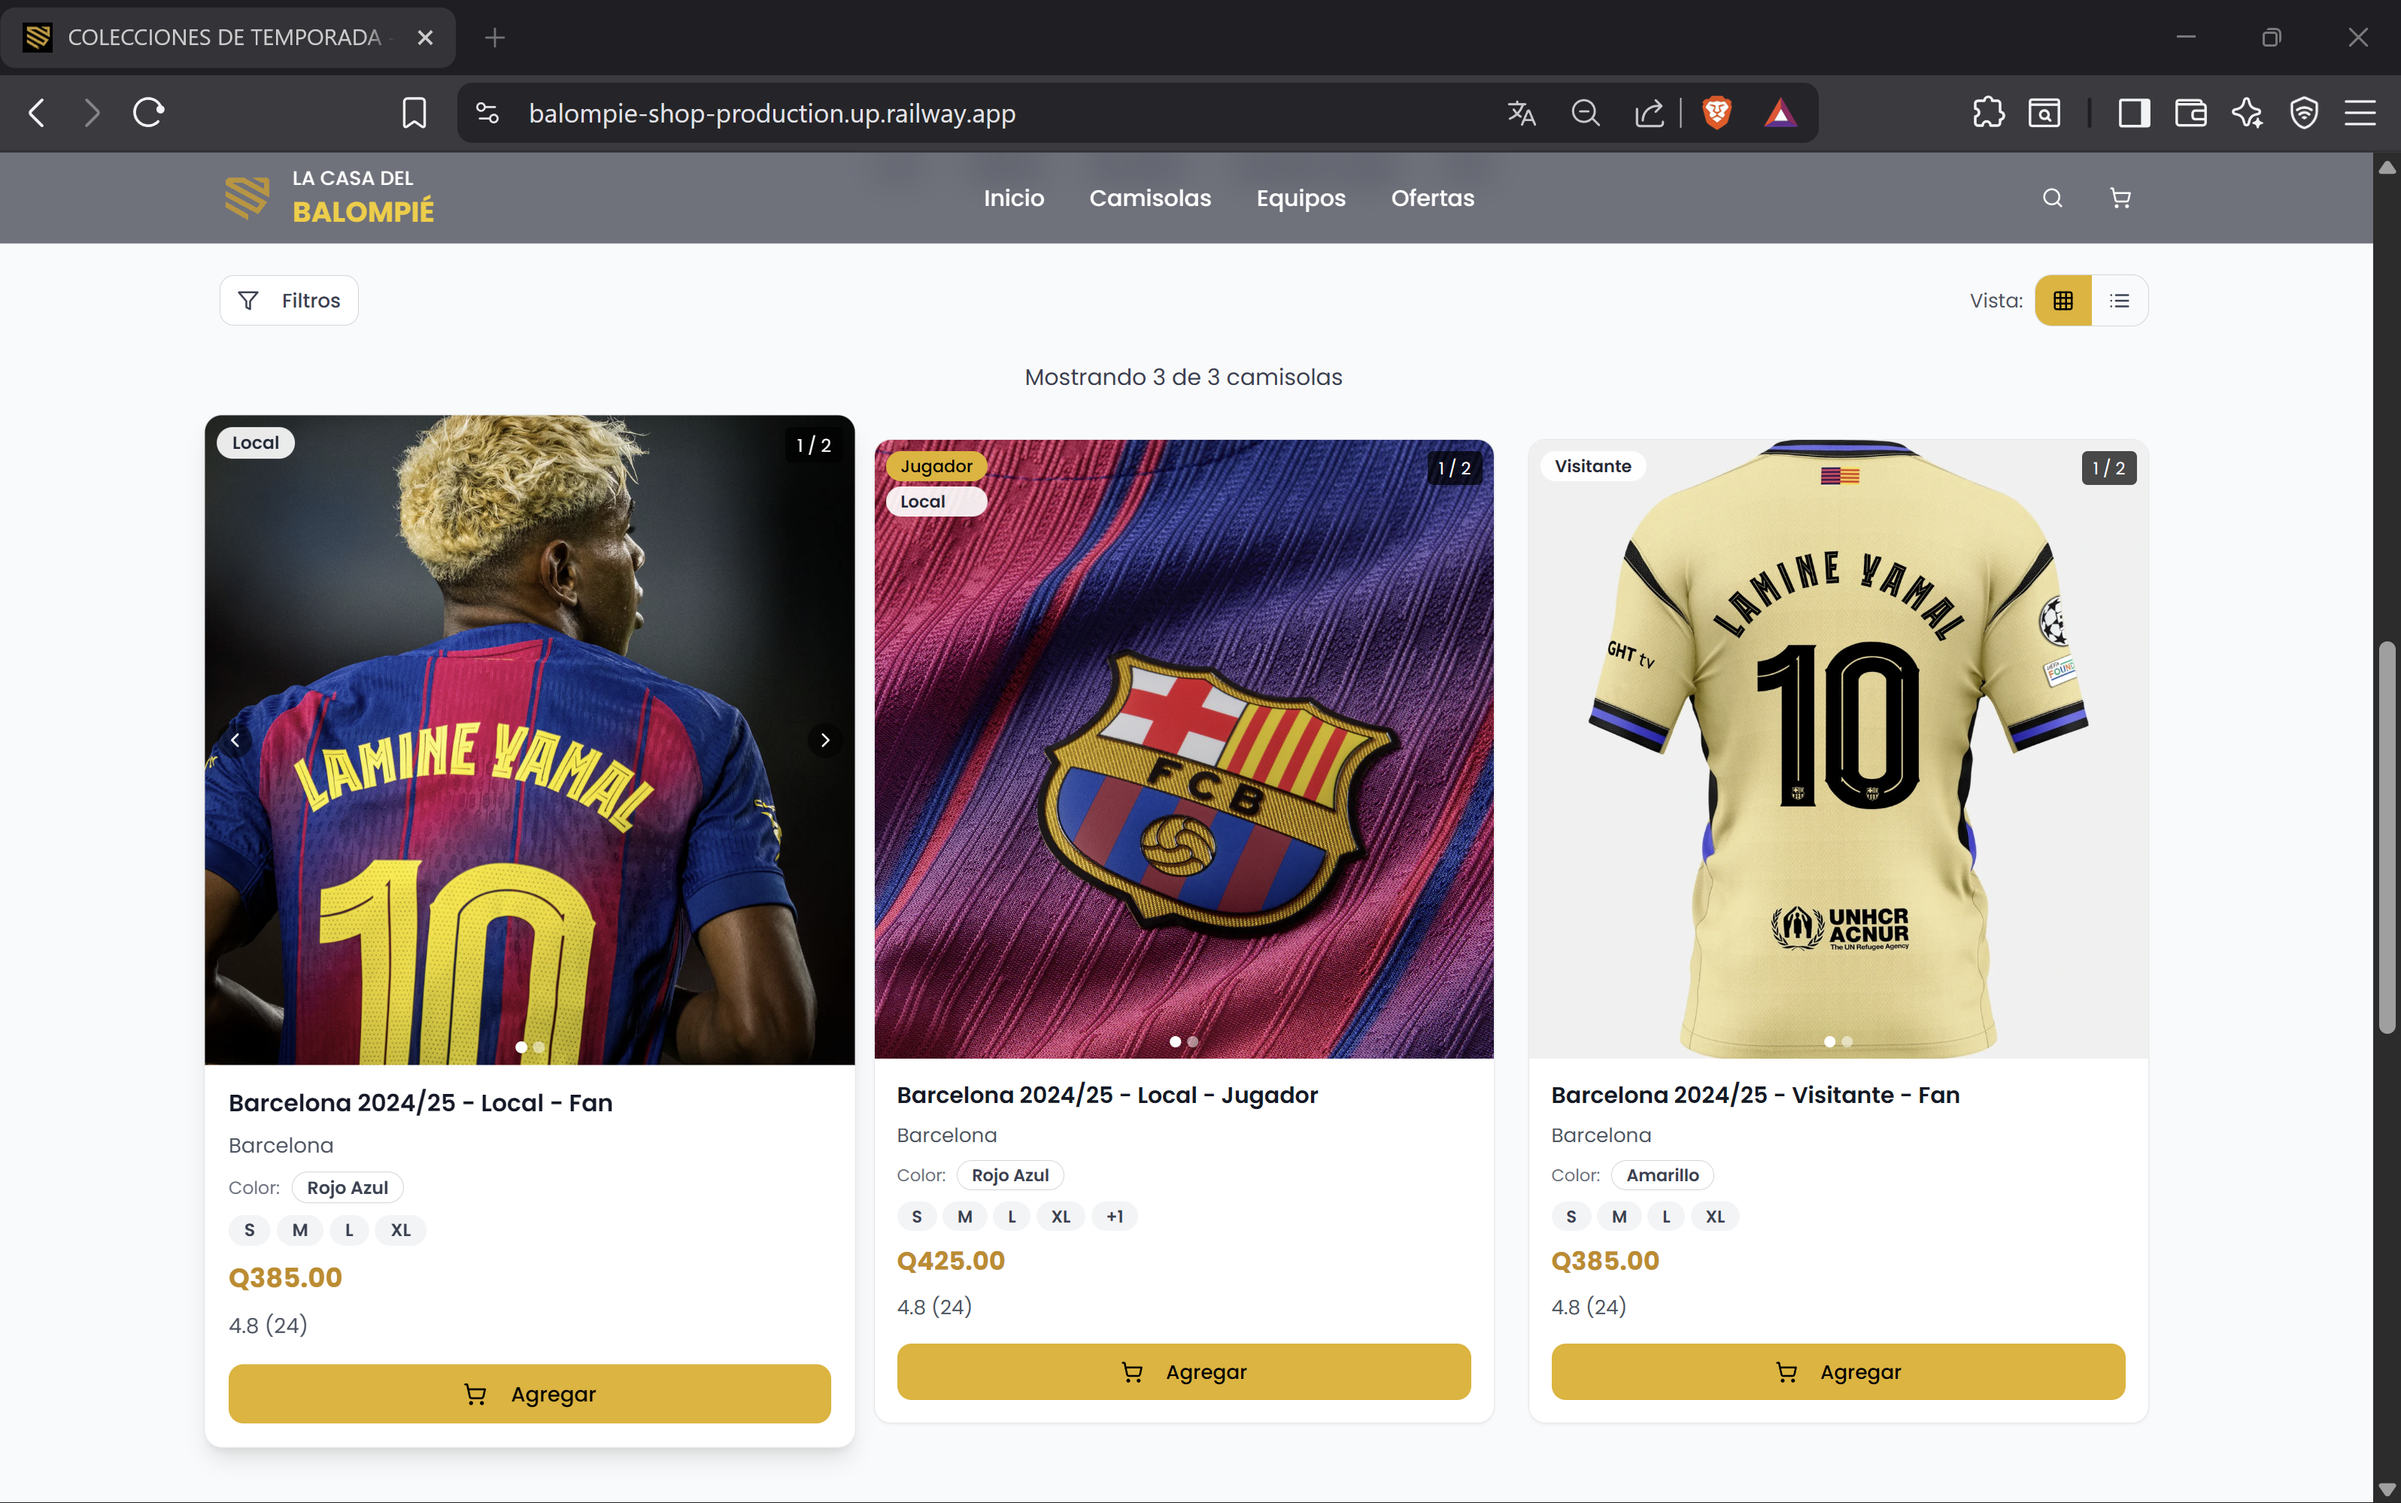
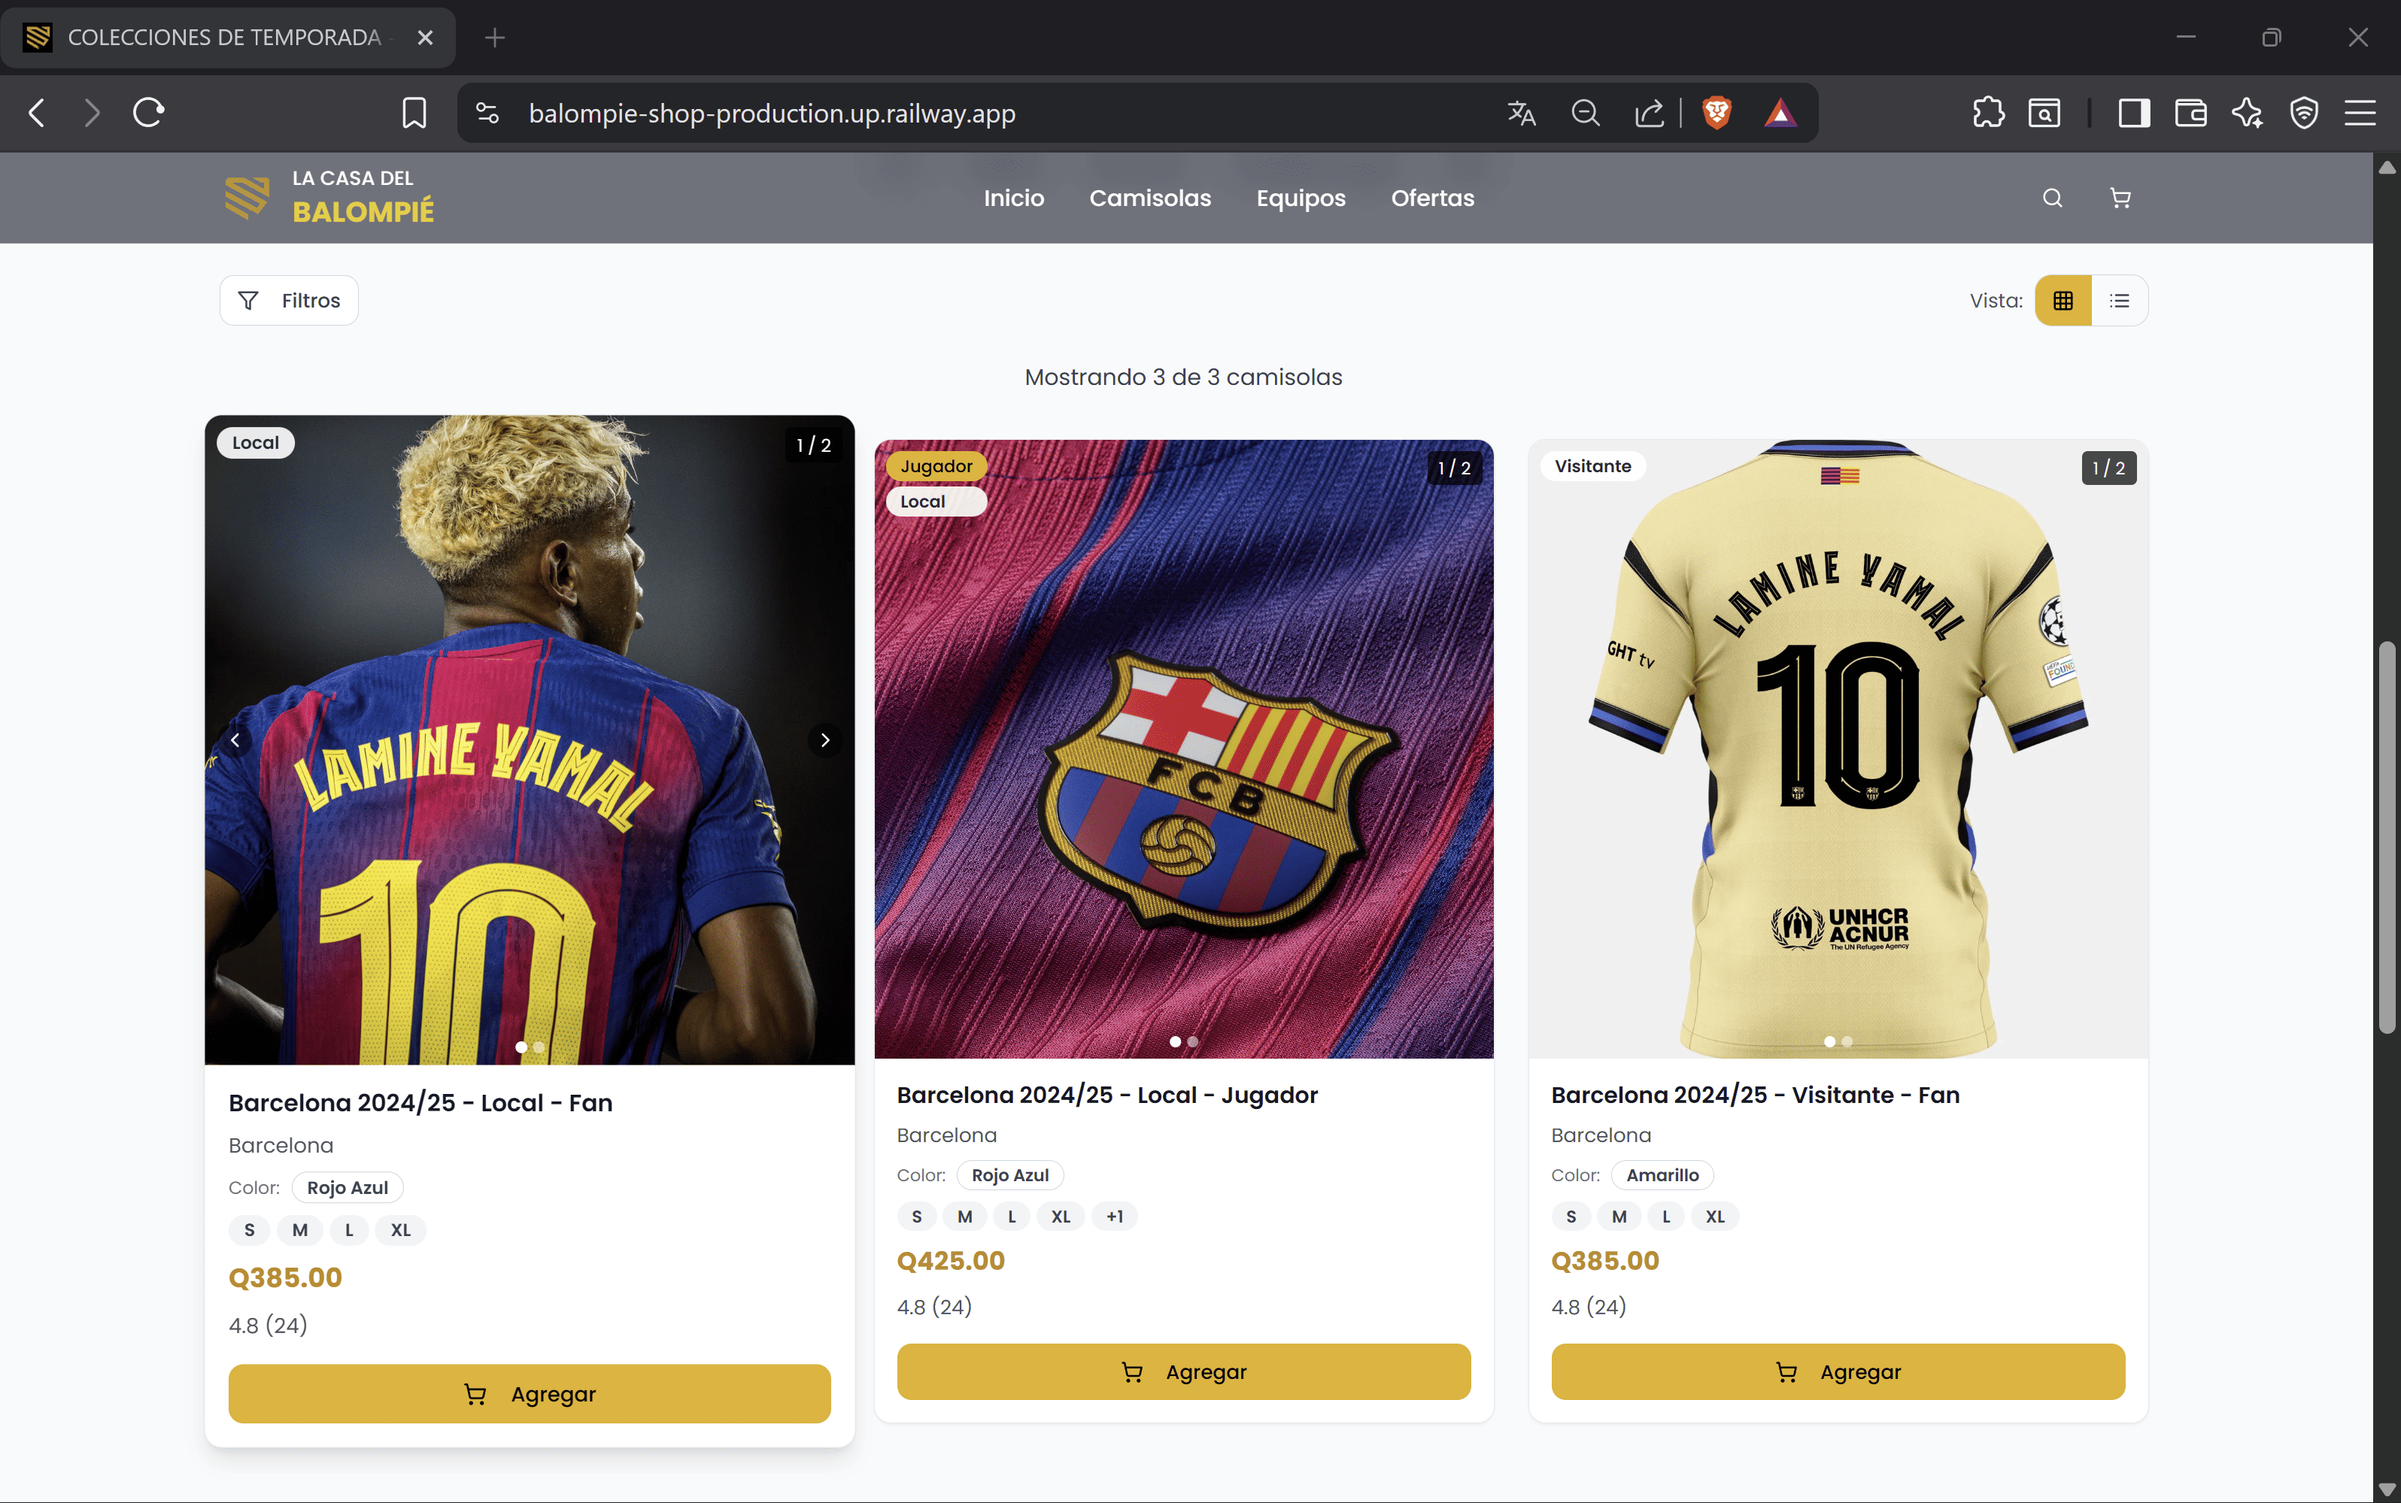
feat: Optimizar imágenes del proyecto e-commerce
- Actualizar project1.png con versión comprimida (hero section)
- Actualizar project2.png con versión comprimida (página productos)
- Agregar documentación de optimización de imágenes
- Mejorar rendimiento de carga del portfolio

diff --git a/optimize-images.md b/optimize-images.md
@@ -1,0 +1,49 @@
+# 🖼 Optimización de Imágenes del Proyecto
+
+## 📋 **Imágenes a actualizar:**
+- `src/assets/project1.png` - Hero section del e-commerce
+- `src/assets/project2.png` - Página de productos del e-commerce
+
+## 🎯 **Recomendaciones para compresión:**
+
+### **Tamaño recomendado:**
+- **Ancho**: 800-1200px
+- **Alto**: 600-800px
+- **Formato**: PNG (para capturas de pantalla)
+- **Calidad**: 80-90%
+
+### **Herramientas recomendadas:**
+1. **TinyPNG** - [tinypng.com](https://tinypng.com)
+2. **Squoosh** - [squoosh.app](https://squoosh.app)
+3. **ImageOptim** (Mac)
+4. **GIMP** (gratuito)
+
+## 🚀 **Pasos para actualizar:**
+
+### 1. **Comprimir las imágenes**
+- Usa una de las herramientas mencionadas
+- Reduce el tamaño manteniendo buena calidad
+- Guarda como `project1.png` y `project2.png`
+
+### 2. **Reemplazar en el proyecto**
+```bash
+# Copia las nuevas imágenes a:
+src/assets/project1.png
+src/assets/project2.png
+```
+
+### 3. **Verificar el resultado**
+- Las imágenes se cargarán automáticamente
+- El proyecto mostrará las nuevas capturas
+
+## 📊 **Beneficios de la compresión:**
+- ✅ **Carga más rápida**
+- ✅ **Menor uso de ancho de banda**
+- ✅ **Mejor experiencia de usuario**
+- ✅ **SEO mejorado**
+
+## 🎨 **Contenido de las imágenes:**
+- **project1.png**: Hero section con "COLECCIONES DE TEMPORADA"
+- **project2.png**: Página de productos con camisetas de Barcelona
+
+¡Una vez que tengas las imágenes comprimidas, solo reemplázalas en la carpeta `src/assets/`!
